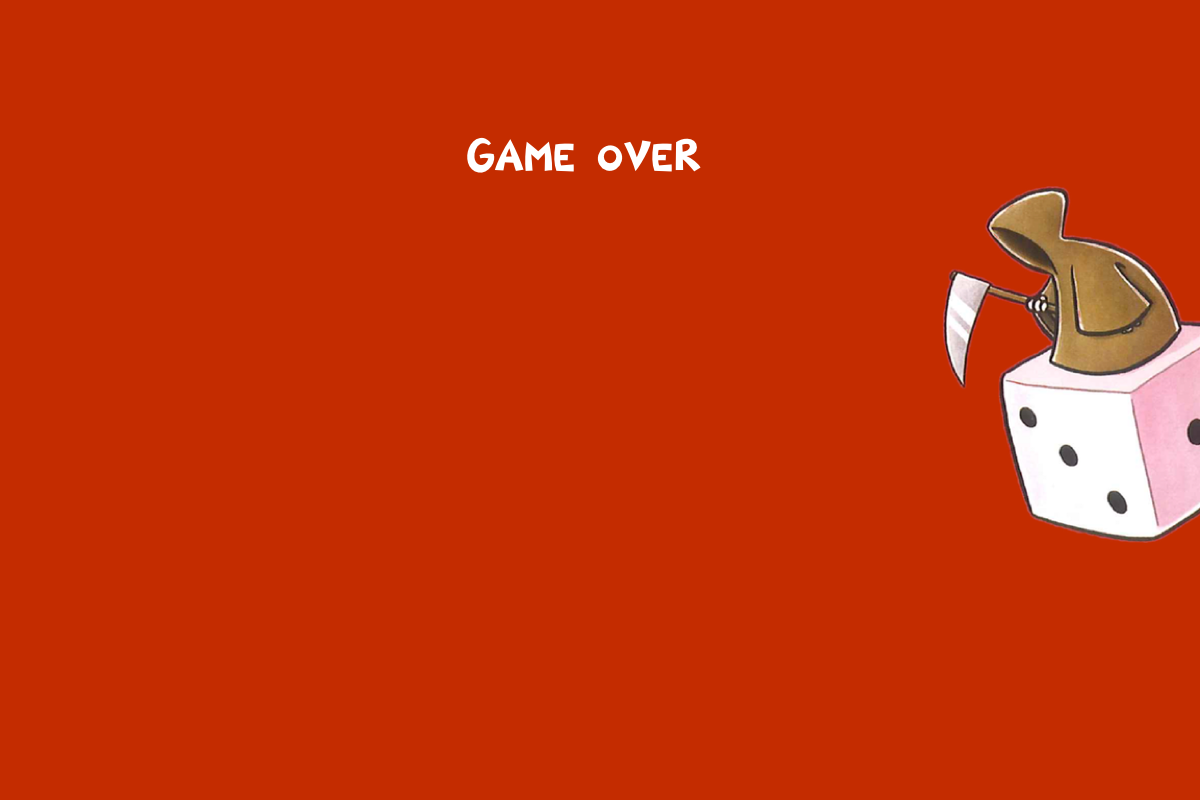
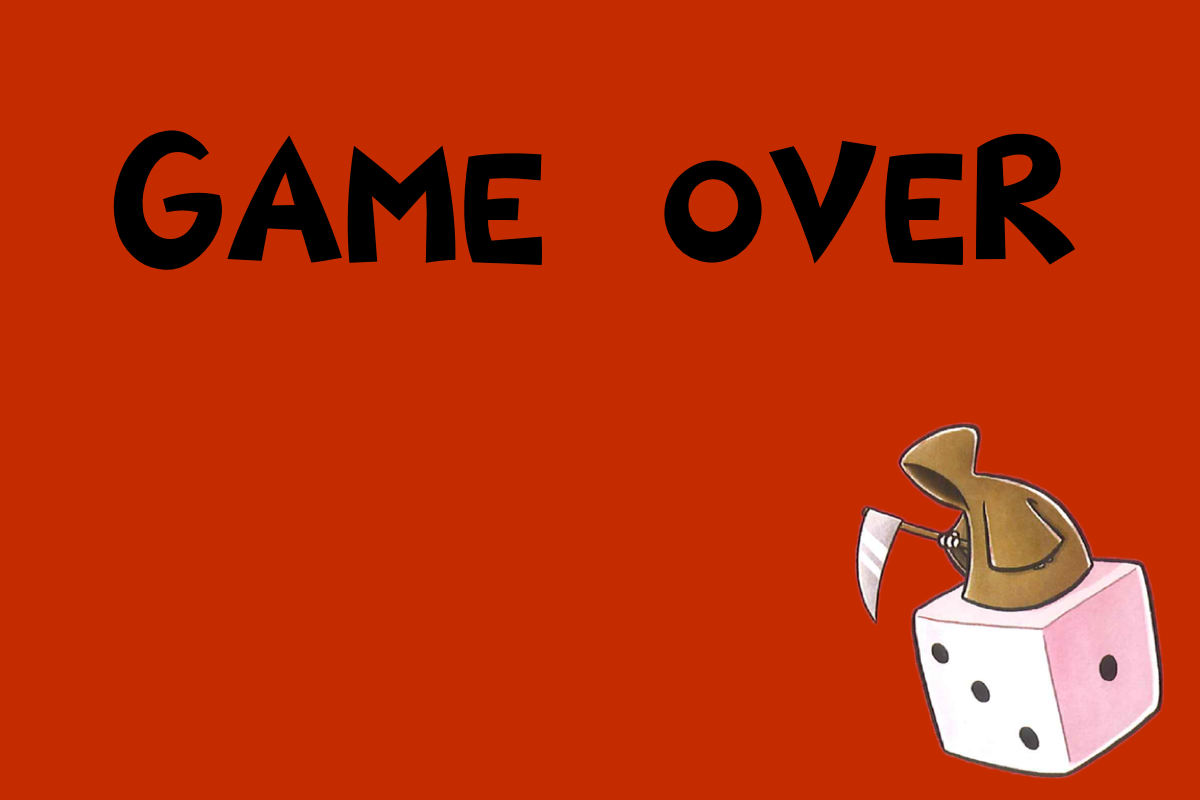
adjusted gameFinished scene

Changed region(s): [[0.0925, 0.1562, 1.0, 1.0]]

diff --git a/src/client/ClientView.java b/src/client/ClientView.java
@@ -50,7 +50,7 @@ public class ClientView {
 	ClientModel model;
 	protected TextField tf_username;
 	protected Button b_login, b_register,b_quitGame, b_backLobby ,b_statistic, b_rules, b_spielErstellen, b_spielBeitreten, b_backStatistik, b_backRegeln,b_nextImage, b_previousImage, b_backGame, b_würfeln, b_sendchat, b_fertigGame, b_backLoginFailed, b_languageChange, b_gameLobby;
-	protected Label labelPL1, labelPL2, loginFailed, lb_username, lb_password, lb_chooseLanguage, labelFinished;
+	protected Label labelPL1, labelPL2, loginFailed, lb_username, lb_password, lb_chooseLanguage, labelFinished, finalScore1, finalScore2;
 	protected TableView<Integer> table;
 	protected TableColumn<Integer,String> rankCol, userNameCol, scoreCol, dateCol;
 	protected GameAvailableImage gai;
@@ -62,7 +62,7 @@ public class ClientView {
 	protected Rectangle rectangleSpace,rectangleSpace1, rectangleSpace2;
 	protected ImageView turnPL1, turnPL2, winnerIV, loserIV, drawIV;
 	protected Image turn1, turn2, turn1_de, turn2_de, winner, winner_de, loser, loser_de, draw, draw_de;
-	protected HBox centerPaneStatistik ;
+	protected HBox centerPaneStatistik, scoreHbox, backHbox;
 	protected BorderPane topPaneStatistik, topPaneGameFinished;
 	
 	//Height and Width of the cards
@@ -167,19 +167,19 @@ public class ClientView {
 		//Button Login
 		b_login = new Button(t.getString("Button.Login"));
 		innerPaneLogin.add(b_login, 1, 25);
-		b_login.setPrefSize(200, 70);
+		b_login.setPrefSize(210, 70);
 		b_login.setId("b-login");
 		
 		//Button Register
 		b_register = new Button(t.getString("Button.Register"));
 		innerPaneLogin.add(b_register, 2, 25);
-		b_register.setPrefSize(200, 70);
+		b_register.setPrefSize(210, 70);
 		b_register.setId("b-login");
 		
 		//Button Quit game
 		b_quitGame = new Button(t.getString("Button.QuitGame"));
 		innerPaneLogin.add(b_quitGame, 3, 25);
-		b_quitGame.setPrefSize(200,70);
+		b_quitGame.setPrefSize(210,70);
 		b_quitGame.setId("b-login");
 		
 		//Scene Login
@@ -537,7 +537,7 @@ public class ClientView {
 		//Button GameLobby
 		b_gameLobby = new Button (t.getString("Button.backLobby"));
 		b_gameLobby.setPrefSize(220, 70);
-		topPaneGameFinished.setBottom(b_gameLobby);
+		b_gameLobby.setAlignment(Pos.CENTER);
 		b_gameLobby.setId("b-login");
 		
 		//ImageView winner
@@ -554,6 +554,28 @@ public class ClientView {
 		drawIV = new ImageView();
 		draw = new Image("images/draw.png");
 		draw_de = new Image("images/unentschieden.png");
+		
+		//Hbox score & ImageView winner/loser
+		scoreHbox = new HBox();
+		scoreHbox.setAlignment(Pos.CENTER);
+		scoreHbox.setSpacing(5);
+		topPaneGameFinished.setCenter(scoreHbox);
+		
+		//Label finishedScene ScorePL1
+		finalScore1 = new Label("you scored "+scorePL1+" points");
+		finalScore1.setId("lb-labelscore");
+		
+		//Label finishedScene ScorePL2
+		finalScore2 = new Label("you scored "+scorePL2+" points");
+		finalScore2.setId("lb-labelscore");
+		
+		//Hbox b_GameLobby
+		backHbox = new HBox();
+		backHbox.setAlignment(Pos.CENTER);
+		backHbox.setPadding(new Insets(0, 0, 15, 0));
+		backHbox.getChildren().addAll(b_gameLobby);
+		topPaneGameFinished.setBottom(backHbox);
+		
 	
 		
 		//Scene GameFinished

diff --git a/src/client/ClientController.java b/src/client/ClientController.java
@@ -952,23 +952,24 @@ public class ClientController {
 			view.winnerIV.setImage(view.winner_de);}
 			else{
 				view.winnerIV.setImage(view.winner);}
-				view.topPaneGameFinished.setCenter(view.winnerIV);
-				view.topPaneGameFinished.setTop(view.labelPL1);
+				view.scoreHbox.getChildren().addAll(view.winnerIV);
+				view.scoreHbox.getChildren().addAll(view.finalScore1);
+				
 				
 		}else if(view.scorePL1 < view.scorePL2){
 			if(view.t.getCurrentLocaleString().equals("de")){
 				view.loserIV.setImage(view.loser_de);}
 				else{
 					view.loserIV.setImage(view.loser);}
-					view.topPaneGameFinished.setCenter(view.loserIV);
-					view.topPaneGameFinished.setTop(view.labelPL2);
+			view.scoreHbox.getChildren().addAll(view.loserIV);
+			view.scoreHbox.getChildren().addAll(view.finalScore2);
 		}else{
 			if(view.t.getCurrentLocaleString().equals("de")){
 				view.drawIV.setImage(view.draw_de);}
 				else{
 					view.drawIV.setImage(view.draw);
-					view.topPaneGameFinished.setCenter(view.drawIV);
-					view.topPaneGameFinished.setTop(view.labelPL1);
+					view.scoreHbox.getChildren().addAll(view.drawIV);
+					view.scoreHbox.getChildren().addAll(view.finalScore1);
 		}
 		}
 		setGameFinishedScene();
